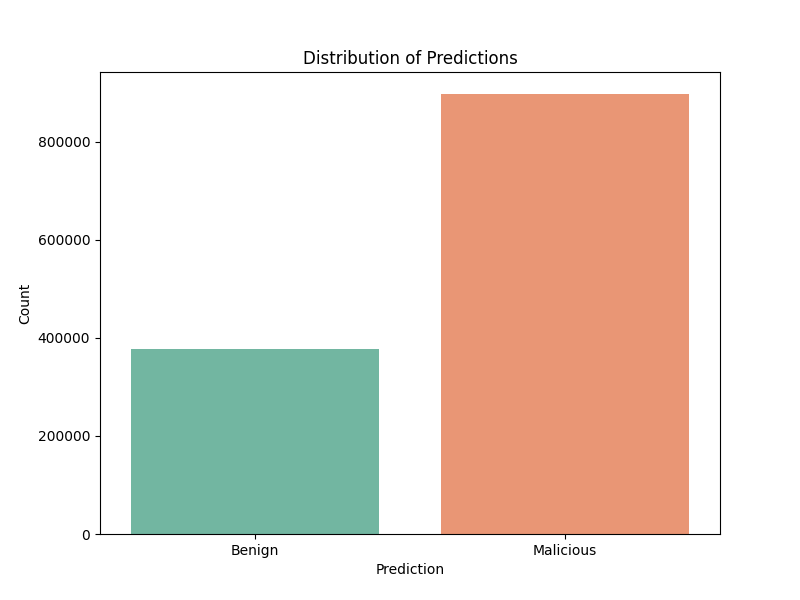
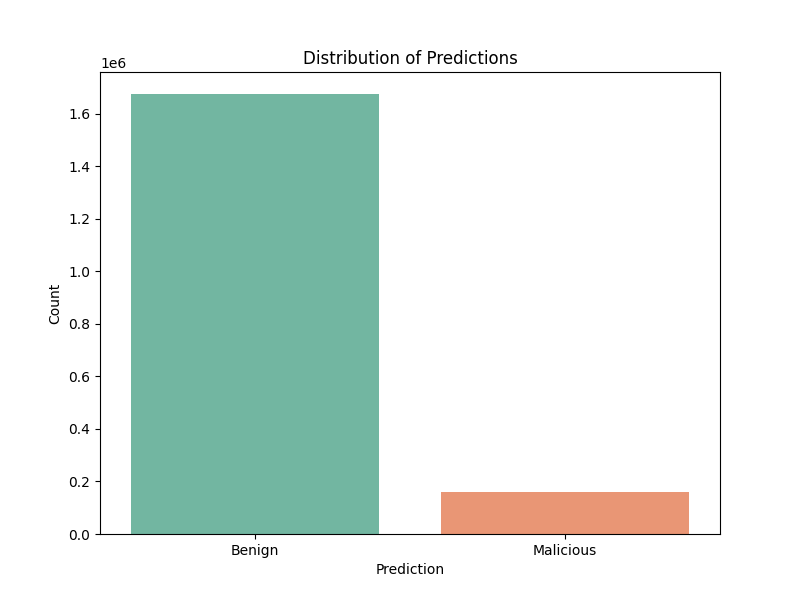
Testing on PCAP files

diff --git a/utils/extract_features.py b/utils/extract_features.py
@@ -1,18 +1,17 @@
 import os
-from scapy.all import *
-from scapy.layers.inet import IP, TCP, UDP
-from scapy.layers.inet6 import IPv6
+from scapy.all import PcapReader, IP, TCP, UDP, IPv6, Raw
 import pandas as pd
 from tqdm import tqdm  # For progress bar
 
 def extract_pcap_features(pcap_file, output_csv):
     """Extract features from a single PCAP file."""
-    # Read the PCAP file
-    packets = rdpcap(pcap_file)
+    # Use PcapReader for streaming packets
+    packets = PcapReader(pcap_file)
     data = []
+    last_packet_time = None  # Track the last packet time for duration calculation
 
     # Iterate over packets with a progress bar
-    for i, pkt in tqdm(enumerate(packets), total=len(packets), desc="Processing packets"):
+    for i, pkt in tqdm(enumerate(packets), desc="Processing packets"):
         # Check if the packet has an IP layer (IPv4 or IPv6)
         if IP in pkt or IPv6 in pkt:
             row = {
@@ -22,7 +21,7 @@ def extract_pcap_features(pcap_file, output_csv):
                 'dsport': pkt.dport if TCP in pkt or UDP in pkt else 0,
                 'proto': pkt[IP].proto if IP in pkt else pkt[IPv6].nh,
                 'state': 'ESTABLISHED' if TCP in pkt and pkt[TCP].flags == 0x18 else 'OTHER',
-                'dur': pkt.time if i == 0 else pkt.time - packets[i-1].time,
+                'dur': pkt.time if i == 0 else pkt.time - last_packet_time,
                 'sbytes': len(pkt[IP].payload) if IP in pkt and Raw in pkt else len(pkt[IPv6].payload) if IPv6 in pkt and Raw in pkt else 0,
                 'dbytes': 0,  # Placeholder for destination bytes
                 'sttl': pkt[IP].ttl if IP in pkt else pkt[IPv6].hlim,
@@ -31,8 +30,8 @@ def extract_pcap_features(pcap_file, output_csv):
                 'dloss': 0,  # Placeholder for destination packet loss
                 'service': 'http' if TCP in pkt and pkt[TCP].dport == 80 else '-',
                 'sload': 0,  # Placeholder for source load
-                'dload': 0,  # Placeholder for destination load
-                'sinpkt': 0 if i == 0 else pkt.time - packets[i-1].time,
+                'dload': 0,  # Placeholder for destination load,
+                'sinpkt': 0 if i == 0 else pkt.time - last_packet_time,
                 'dinpkt': 0,  # Placeholder for destination inter-packet arrival time
                 'sjit': 0,  # Placeholder for source jitter
                 'djit': 0,  # Placeholder for destination jitter
@@ -62,9 +61,7 @@ def extract_pcap_features(pcap_file, output_csv):
                 'label': 0  # Placeholder for binary label
             }
             data.append(row)
-        else:
-            # Skip non-IP packets
-            continue
+            last_packet_time = pkt.time  # Update the last packet time
 
     # Convert the list of dictionaries to a DataFrame
     df = pd.DataFrame(data)
@@ -76,7 +73,7 @@ def extract_pcap_features(pcap_file, output_csv):
 
 def extract_features():
     # Path to the input PCAP file
-    pcap_file = "/home/martin/Original Network Traffic and Log data/Friday-02-03-2018/pcap/capWIN-J6GMIG1DQE5-172.31.67.62"  # Replace with your PCAP file path
+    pcap_file = "/home/martin/Original Network Traffic and Log data/Friday-02-03-2018/pcap/capPC1-172.31.65.77"  # Replace with your PCAP file path
 
     # Path to the output CSV file
     output_csv = "/home/martin/TFG/Forensic-Analysis-of-Network-Attacks-using-Graph-Based-Modeling/CSVs/combined_Friday02032018.csv"  # Replace with your desired output path
